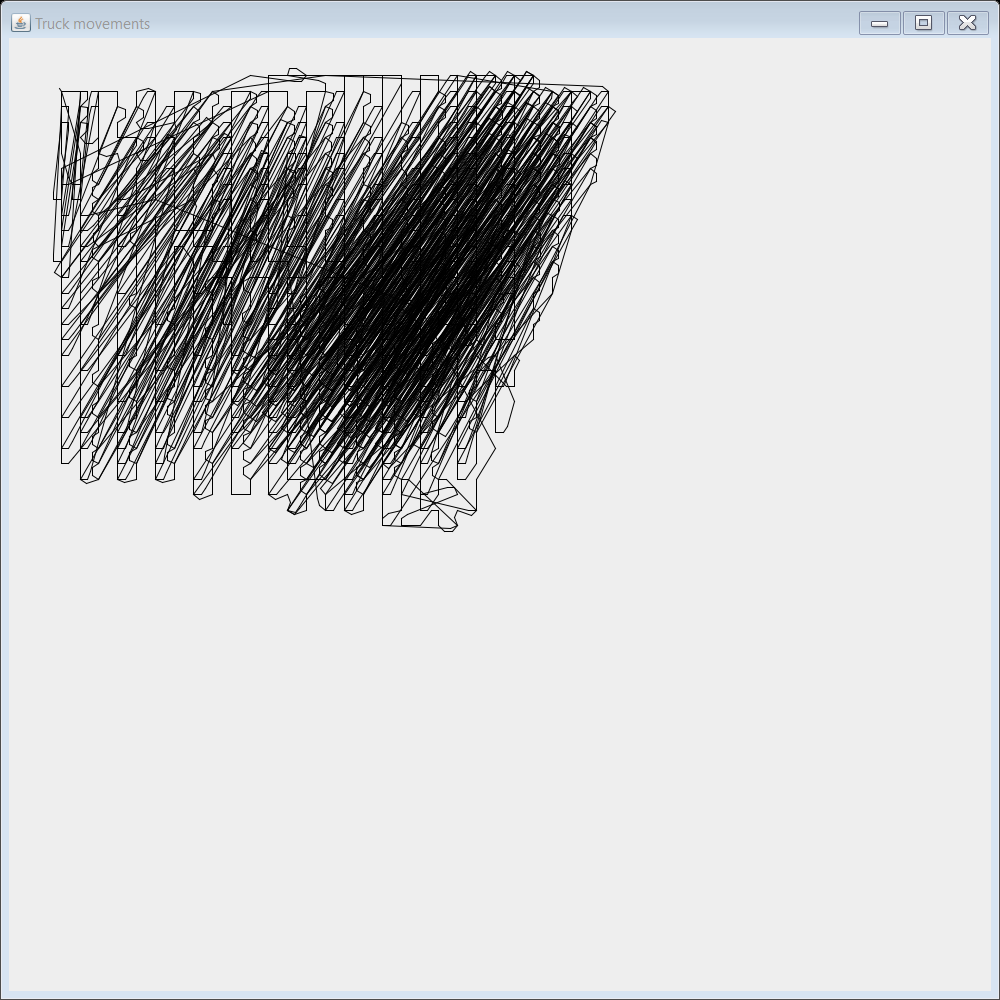
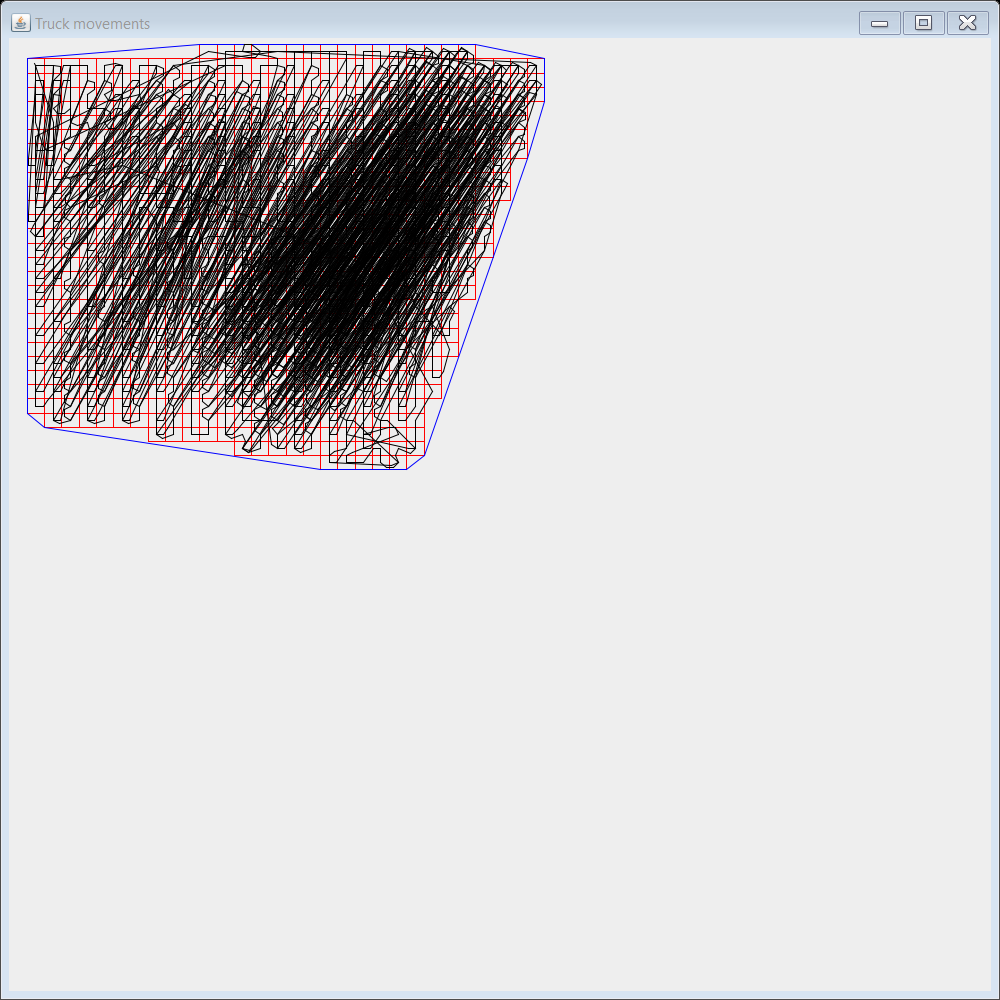
Cleaned up

Changed region(s): [[0.031, 0.031, 0.62, 0.527]]

diff --git a/src/PathPrinter.java b/src/PathPrinter.java
@@ -29,7 +29,7 @@ public class PathPrinter extends JFrame {
 			this.shiftY = shiftY;
 		}
 		
-		public void field(Graphics2D g2D) {
+		public void grid(Graphics2D g2D) {
 			g2D.setRenderingHint(RenderingHints.KEY_ANTIALIASING, RenderingHints.VALUE_ANTIALIAS_ON);
 			g2D.setPaint(Color.RED);
 			
@@ -81,7 +81,13 @@ public class PathPrinter extends JFrame {
 												(coordinates.get(j).y + field.deltaY / 2) * multiplierY + shiftY));
 				}
 			}
+		}
+		
+		public void hull(Graphics2D g2D) {
+			g2D.setRenderingHint(RenderingHints.KEY_ANTIALIASING, RenderingHints.VALUE_ANTIALIAS_ON);
+			g2D.setPaint(Color.BLUE);
 			
+			ArrayList <Coordinates> coordinates = new ArrayList <> ();
 			for(Coordinates c : field.cells.keySet()) {
 				Coordinates c1 = new Coordinates(c.x - field.deltaX / 2, c.y - field.deltaY / 2);
 				if(!coordinates.contains(c1))
@@ -107,6 +113,11 @@ public class PathPrinter extends JFrame {
 			}
 		}
 		
+		public void field(Graphics2D g2D) {
+			grid(g2D);
+			hull(g2D);
+		}
+		
 		public void path(Graphics2D g2D) {
 			g2D.setRenderingHint(RenderingHints.KEY_ANTIALIASING, RenderingHints.VALUE_ANTIALIAS_ON);
 			g2D.setPaint(Color.BLACK);
@@ -122,7 +133,7 @@ public class PathPrinter extends JFrame {
 		public void paint(Graphics g) {
 			Graphics2D g2D = (Graphics2D) g;
 			field(g2D);
-			//path(g2D);
+			path(g2D);
 		}
 	}
 	

diff --git a/src/Main.java b/src/Main.java
@@ -5,7 +5,7 @@ import java.util.Scanner;
 
 public class Main {
 	public static void main(String[] args) throws IOException {
-		final double[] capacities = new double[] {0.015, 0.025, 0.040};
+		final double[] capacities = new double[] {0.015, 0.025, 0.040, 0.080};
 		final Coordinates TRUCK_STARTING_POINT = new Coordinates(0.0, 0.0);
 		final double INITIAL_CARGO = 0.0;
 		
@@ -19,8 +19,8 @@ public class Main {
 				
 				Path path = new Solver(field, truck).solve();
 				
-				//new PathPrinter().print(field, path, 2.3, 2.3, 50.0, 50.0, "PathPrinted\\PATH_cellplot" + inputCode + "b_" + capacity + "_.png");
-				new PathPrinter().print(field, path, 2.3, 2.3, 50.0, 50.0);
+				new PathPrinter().print(field, path, 2.1, 2.1, 25.0, 25.0, "PathPrinted\\PATH_cellplot" + inputCode + "b_" + capacity + "_.png");
+				//new PathPrinter().print(field, path, 2.1, 2.1, 25.0, 25.0);
 				
 				long stop = System.currentTimeMillis();
 				
